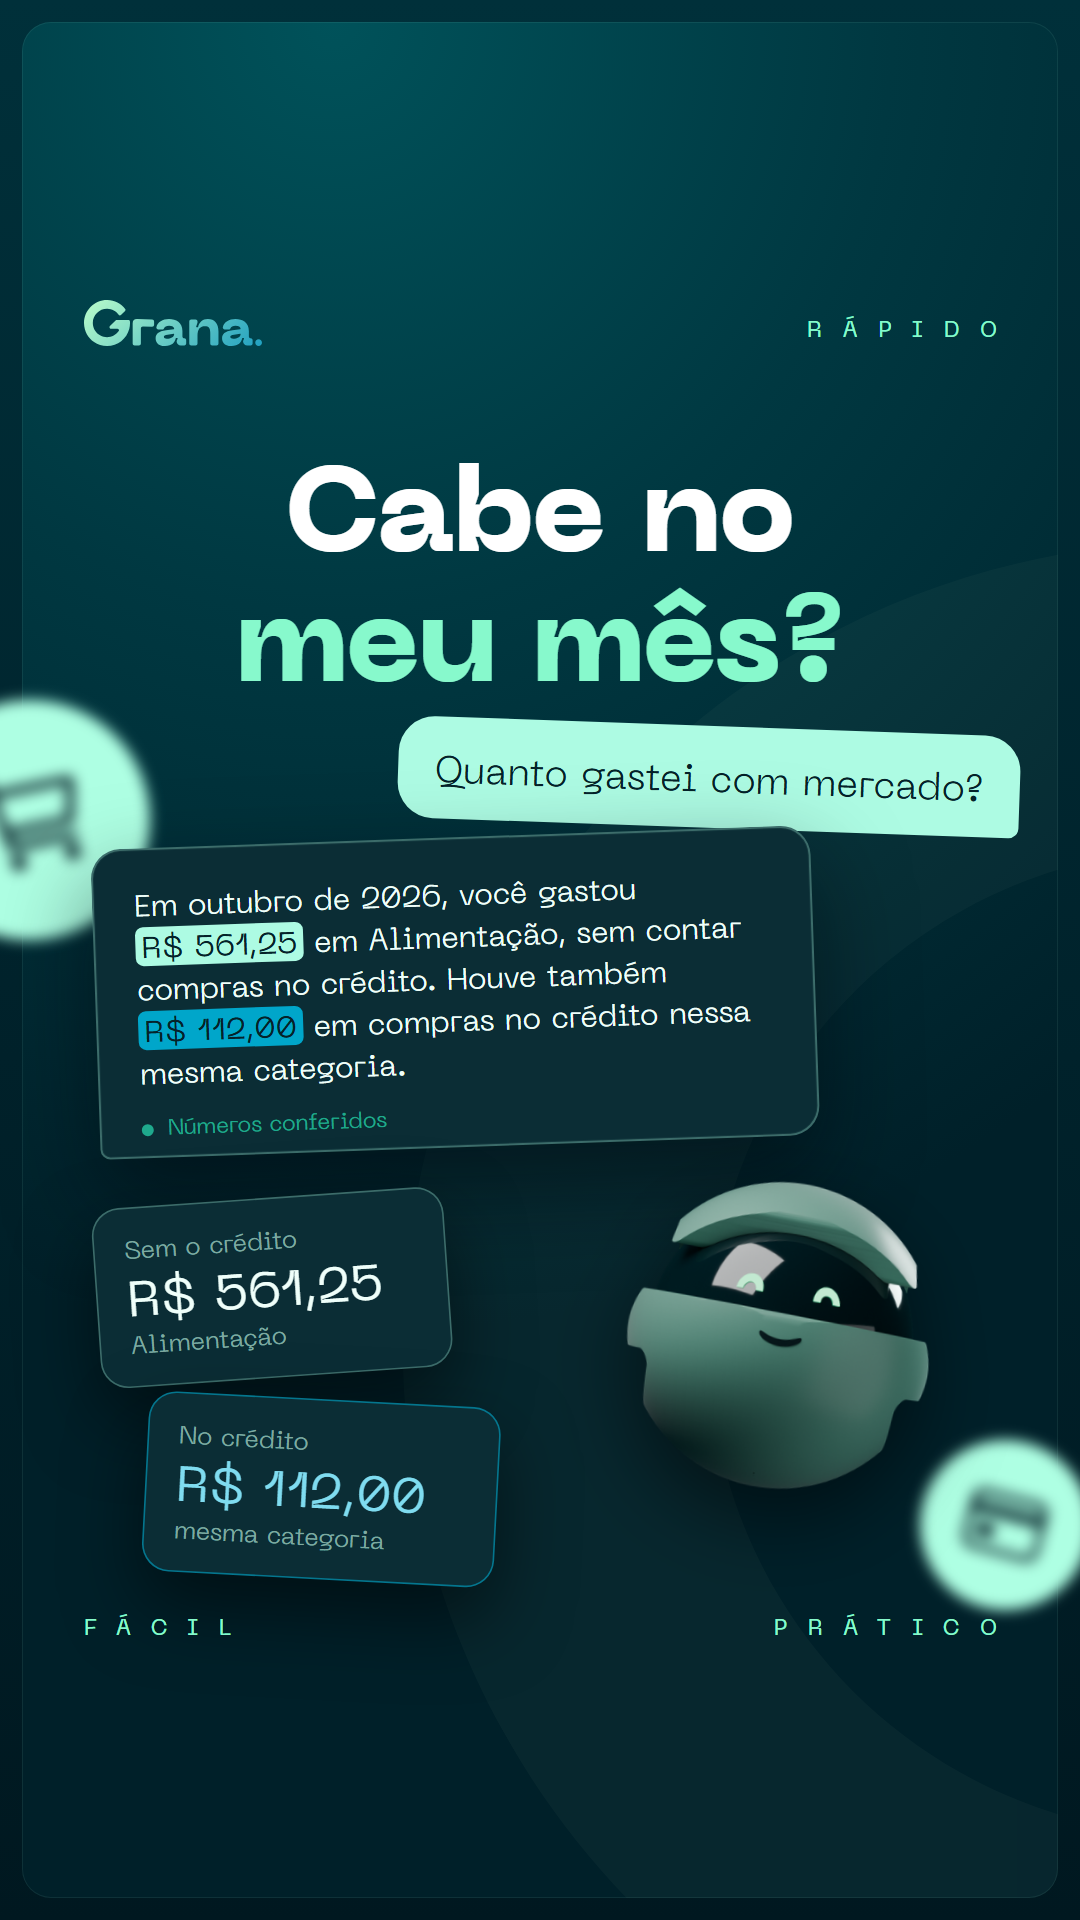
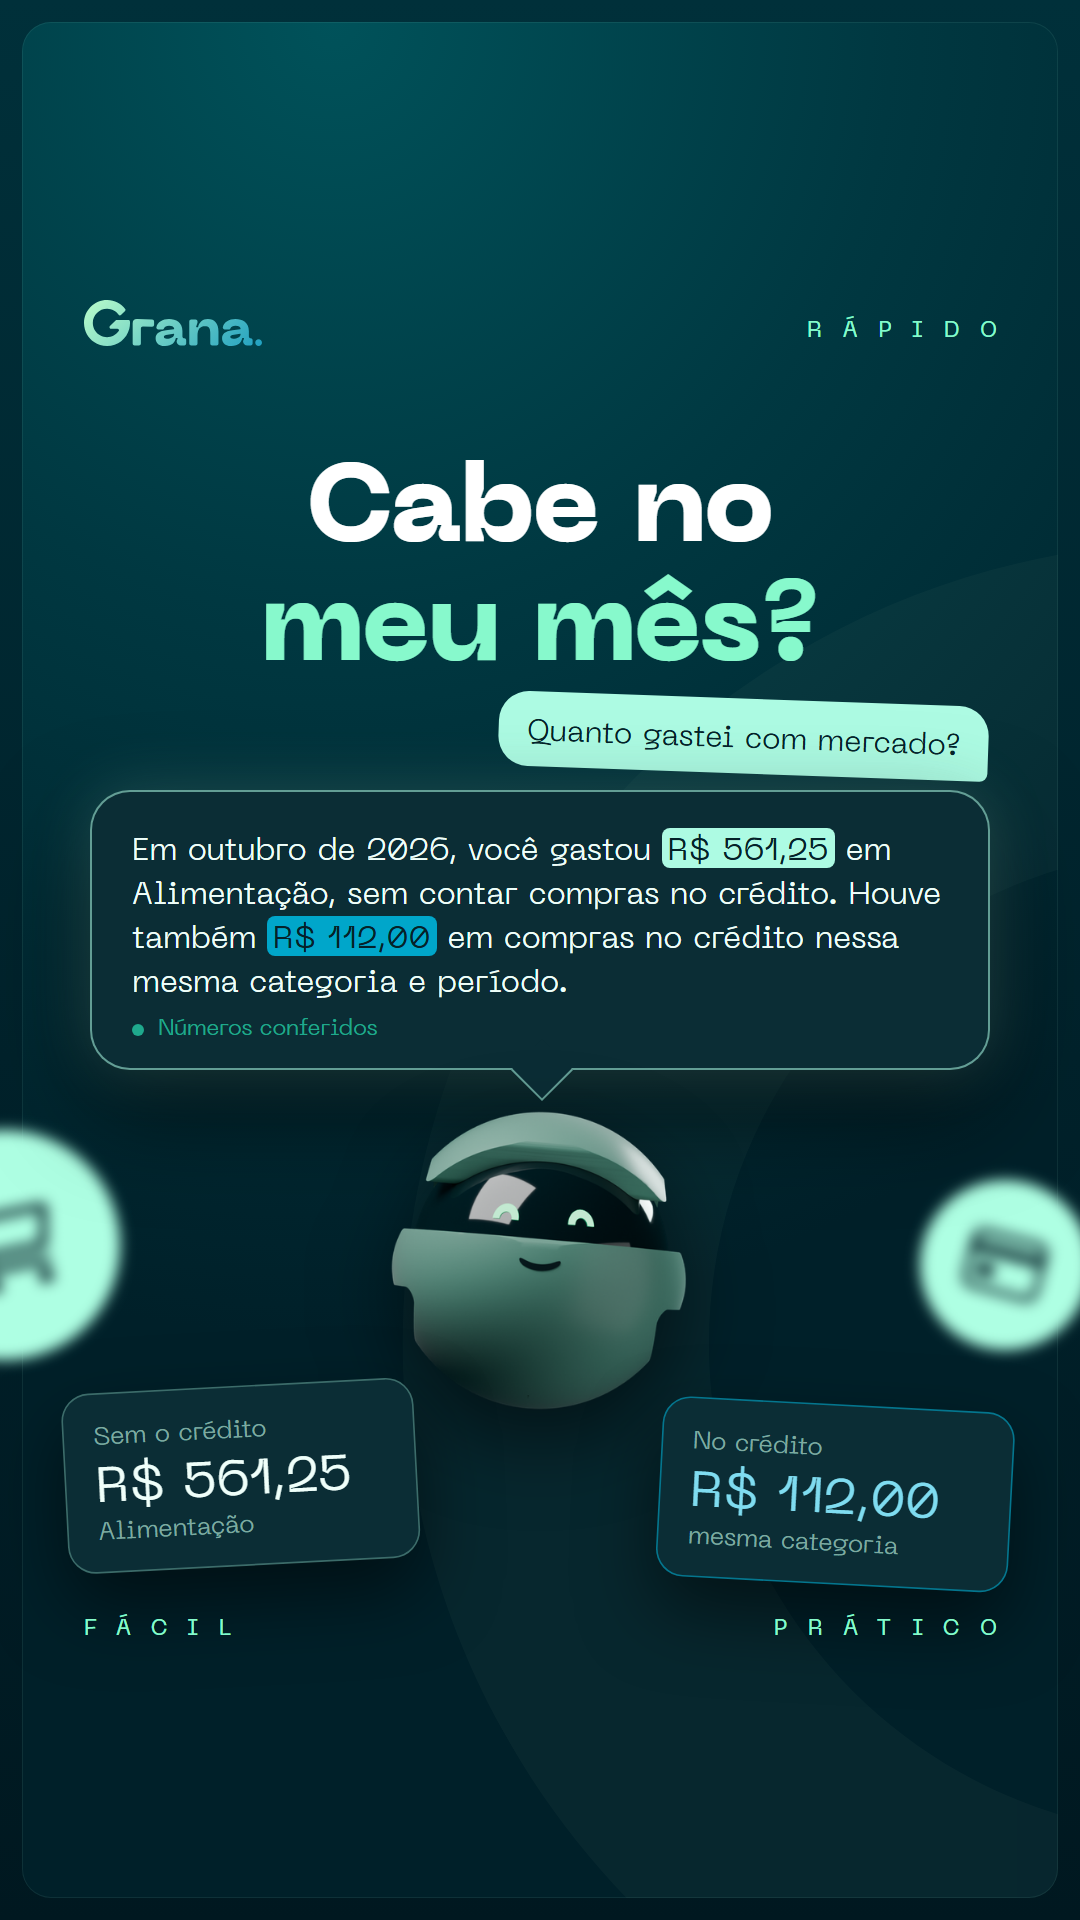
feat(marketing): capa do Compra por impulso com Granabo no centro
Granabo centralizado com o balao de fala apontando para ele e os dois
valores embaixo, como na cena do video (pedido do autor).

Changed region(s): [[0.0, 0.2188, 1.0, 0.8438]]

diff --git a/docs/marketing/2026-10/semana-43-2026-10-19-a-2026-10-25/apoio/reels-serie-reedicao-v3/capa.js b/docs/marketing/2026-10/semana-43-2026-10-19-a-2026-10-25/apoio/reels-serie-reedicao-v3/capa.js
@@ -33,14 +33,17 @@ const CAPAS = {
       + put(box(560, 150, `${A(40, 30, 'Mural de conquistas', 'font-size:32px')}${A(40, 84, '7 de 12', 'font-size:34px;color:#ADFBE3')}<div class="bar" style="left:200px;top:100px;width:320px"><i style="width:58.3%"></i></div>`), 130, 1260, 1, -3)
       + put(box(330, 84, A(30, 22, 'Nível 3 · Aprendiz', 'font-size:28px;color:#ADFBE3'), 'border-radius:999px;border-color:rgba(173,251,227,.6)'), 600, 1440, 1, 4) },
   /* Compra por impulso (escuro) */
-  4: { claro: false, t: ['Cabe no', '<em>meu mês?</em>'], fs: 120,
-    G: { x: 380, y: 520, d: 1600, r: -30 }, ic: [['mercado', -90, 700, 240, -12], ['cartao', 920, 1440, 170, 15]],
+  4: { claro: false, t: ['Cabe no', '<em>meu mês?</em>'], fs: 110,
+    G: { x: 380, y: 520, d: 1600, r: -30 }, ic: [['mercado', -110, 1130, 230, -12], ['cartao', 920, 1180, 170, 15]],
     cards: () =>
-      put(`<div class="bal" style="position:absolute;left:0;top:0;background:#ADFBE3;color:#052229;border-radius:36px;border-bottom-right-radius:10px;font-size:38px;padding:26px 36px;white-space:nowrap">Quanto gastei com mercado?</div>`, 400, 715, 1, 2)
-      + put(box(720, 300, `${A(40, 34, 'Em outubro de 2026, você gastou <b class="pc" style="background:#ADFBE3;color:#052229">R$ 561,25</b> em Alimentação, sem contar compras no crédito. Houve também <b class="pc" style="background:#00a6ca;color:#052229">R$ 112,00</b> em compras no crédito nessa mesma categoria.', 'width:640px;font-size:30px;line-height:42px')}${A(40, 262, '<span class="dot" style="width:12px;height:12px"></span>Números conferidos', 'font-size:22px;color:var(--accent)')}`, 'height:310px;border-bottom-left-radius:10px'), 90, 850, 1, -2)
-      + `<img class="abs" src="assets/granabo-feliz.png" style="left:620px;top:1180px;width:320px;transform:rotate(6deg);filter:drop-shadow(0 30px 40px rgba(0,0,0,.5))">`
-      + put(`<div class="split" style="left:0;top:0"><small>Sem o crédito</small><b>R$ 561,25</b><small>Alimentação</small></div>`, 90, 1210, .82, -4)
-      + put(`<div class="split" style="left:0;top:0;border-color:rgba(0,166,202,.6)"><small>No crédito</small><b style="color:#7fdcf0">R$ 112,00</b><small>mesma categoria</small></div>`, 150, 1390, .82, 3) },
+      put(`<div class="bal" style="position:absolute;left:0;top:0;background:#ADFBE3;color:#052229;border-radius:30px;border-bottom-right-radius:8px;font-size:30px;padding:18px 28px;white-space:nowrap">Quanto gastei com mercado?</div>`, 500, 690, 1, 2)
+      + `<div class="cw" style="left:90px;top:790px;width:900px"><div style="position:relative;padding:34px 40px 26px;border-radius:40px;background:#0b2d35;border:2px solid rgba(173,251,227,.55);box-shadow:0 0 60px rgba(173,251,227,.18),0 40px 100px rgba(0,0,0,.55);font-size:31px;line-height:44px">
+         Em outubro de 2026, você gastou <b class="pc" style="background:#ADFBE3;color:#052229">R$ 561,25</b> em Alimentação, sem contar compras no crédito. Houve também <b class="pc" style="background:#00a6ca;color:#052229">R$ 112,00</b> em compras no crédito nessa mesma categoria e período.
+         <div style="margin-top:10px;font-size:22px;line-height:30px;color:var(--accent)"><span class="dot" style="width:12px;height:12px"></span>Números conferidos</div>
+         <div style="position:absolute;left:428px;bottom:-24px;width:44px;height:44px;background:#0b2d35;border-right:2px solid rgba(173,251,227,.55);border-bottom:2px solid rgba(173,251,227,.55);transform:rotate(45deg)"></div></div></div>`
+      + `<img class="abs" src="assets/granabo-feliz.png" style="left:385px;top:1110px;width:310px;filter:drop-shadow(0 30px 40px rgba(0,0,0,.5))">`
+      + put(`<div class="split" style="left:0;top:0"><small>Sem o crédito</small><b>R$ 561,25</b><small>Alimentação</small></div>`, 60, 1395, .82, -3)
+      + put(`<div class="split" style="left:0;top:0;border-color:rgba(0,166,202,.6)"><small>No crédito</small><b style="color:#7fdcf0">R$ 112,00</b><small>mesma categoria</small></div>`, 664, 1395, .82, 3) },
   /* Comprometimento futuro (escuro) */
   5: { claro: false, t: ['Quanto do seu dinheiro', '<em>já tem destino?</em>'], fs: 70,
     G: { x: -400, y: 300, d: 1640, r: 40 }, ic: [['calendario', 900, 620, 260, 12], ['graficos', -80, 1400, 180, -15]],
